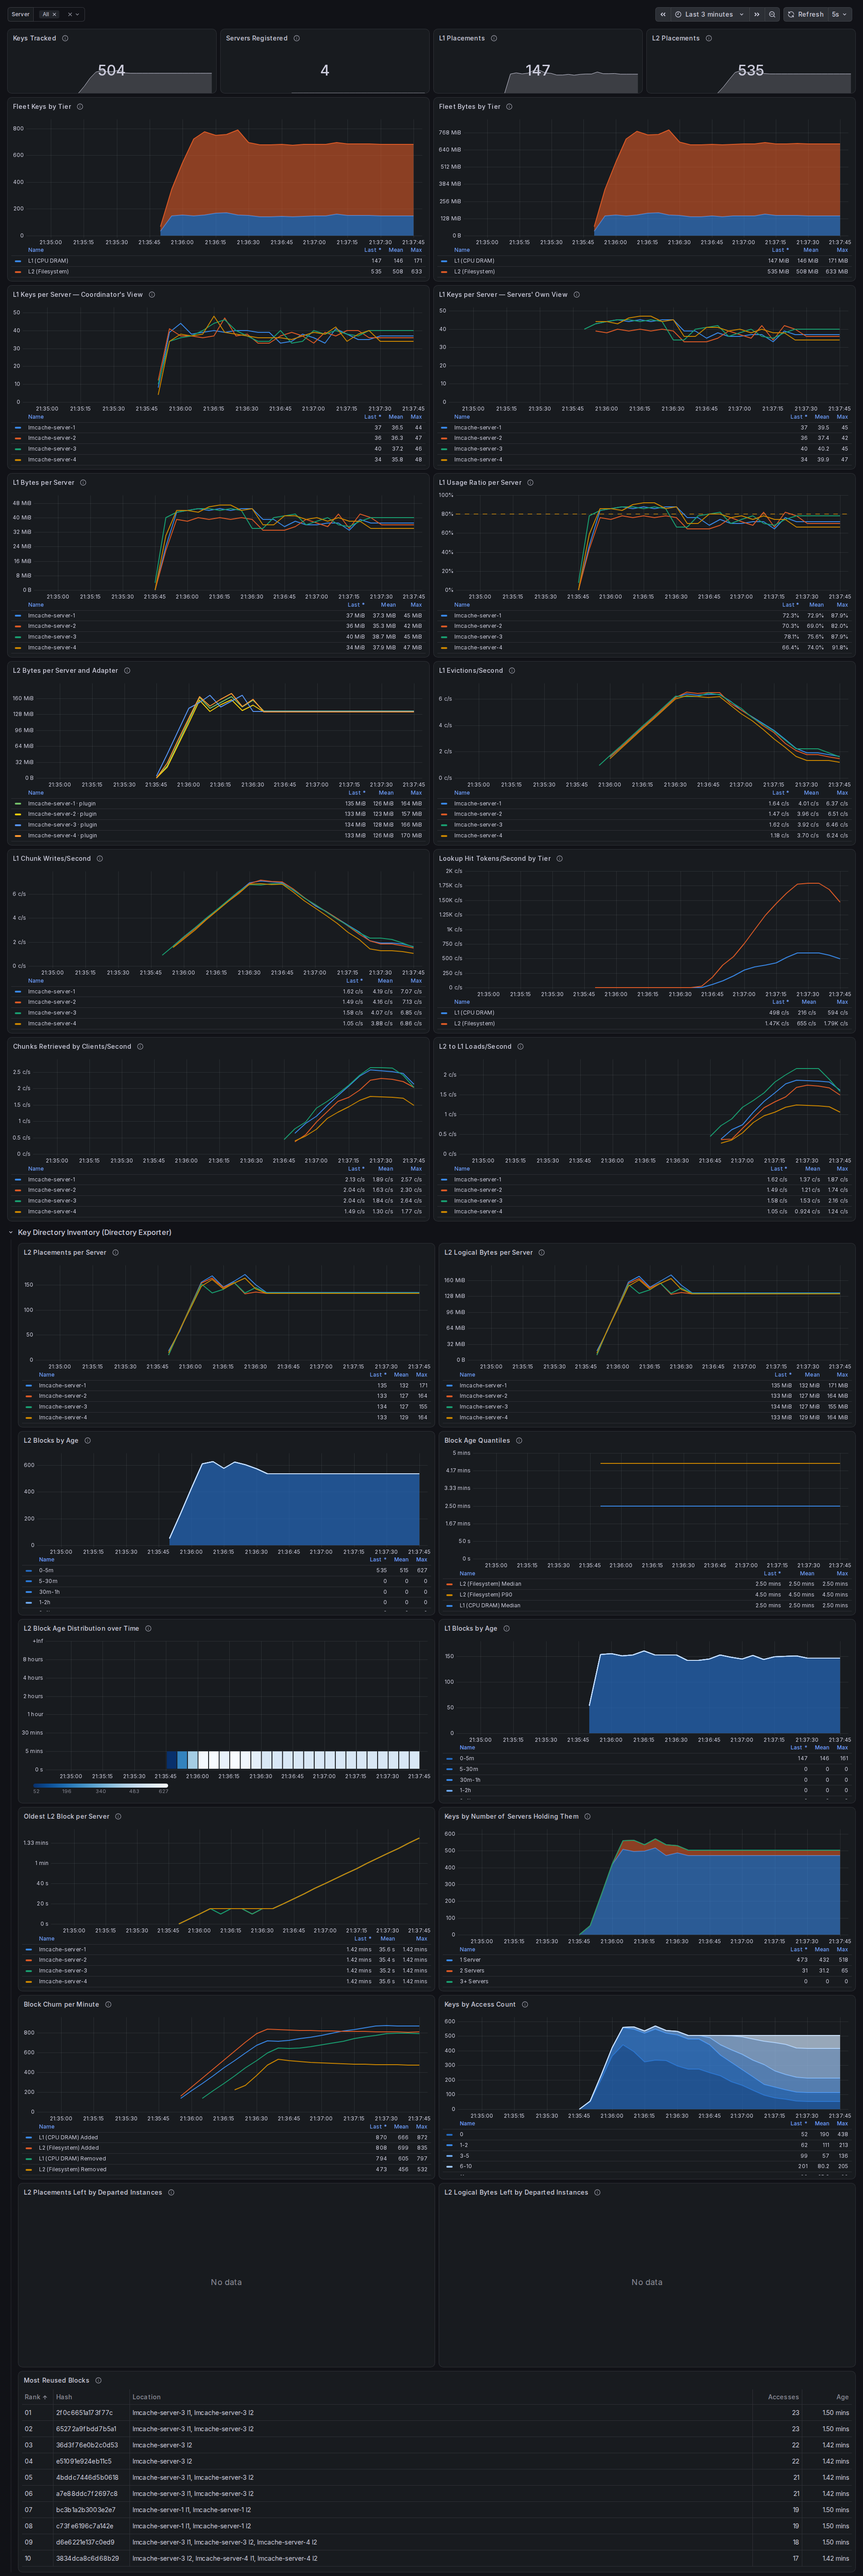
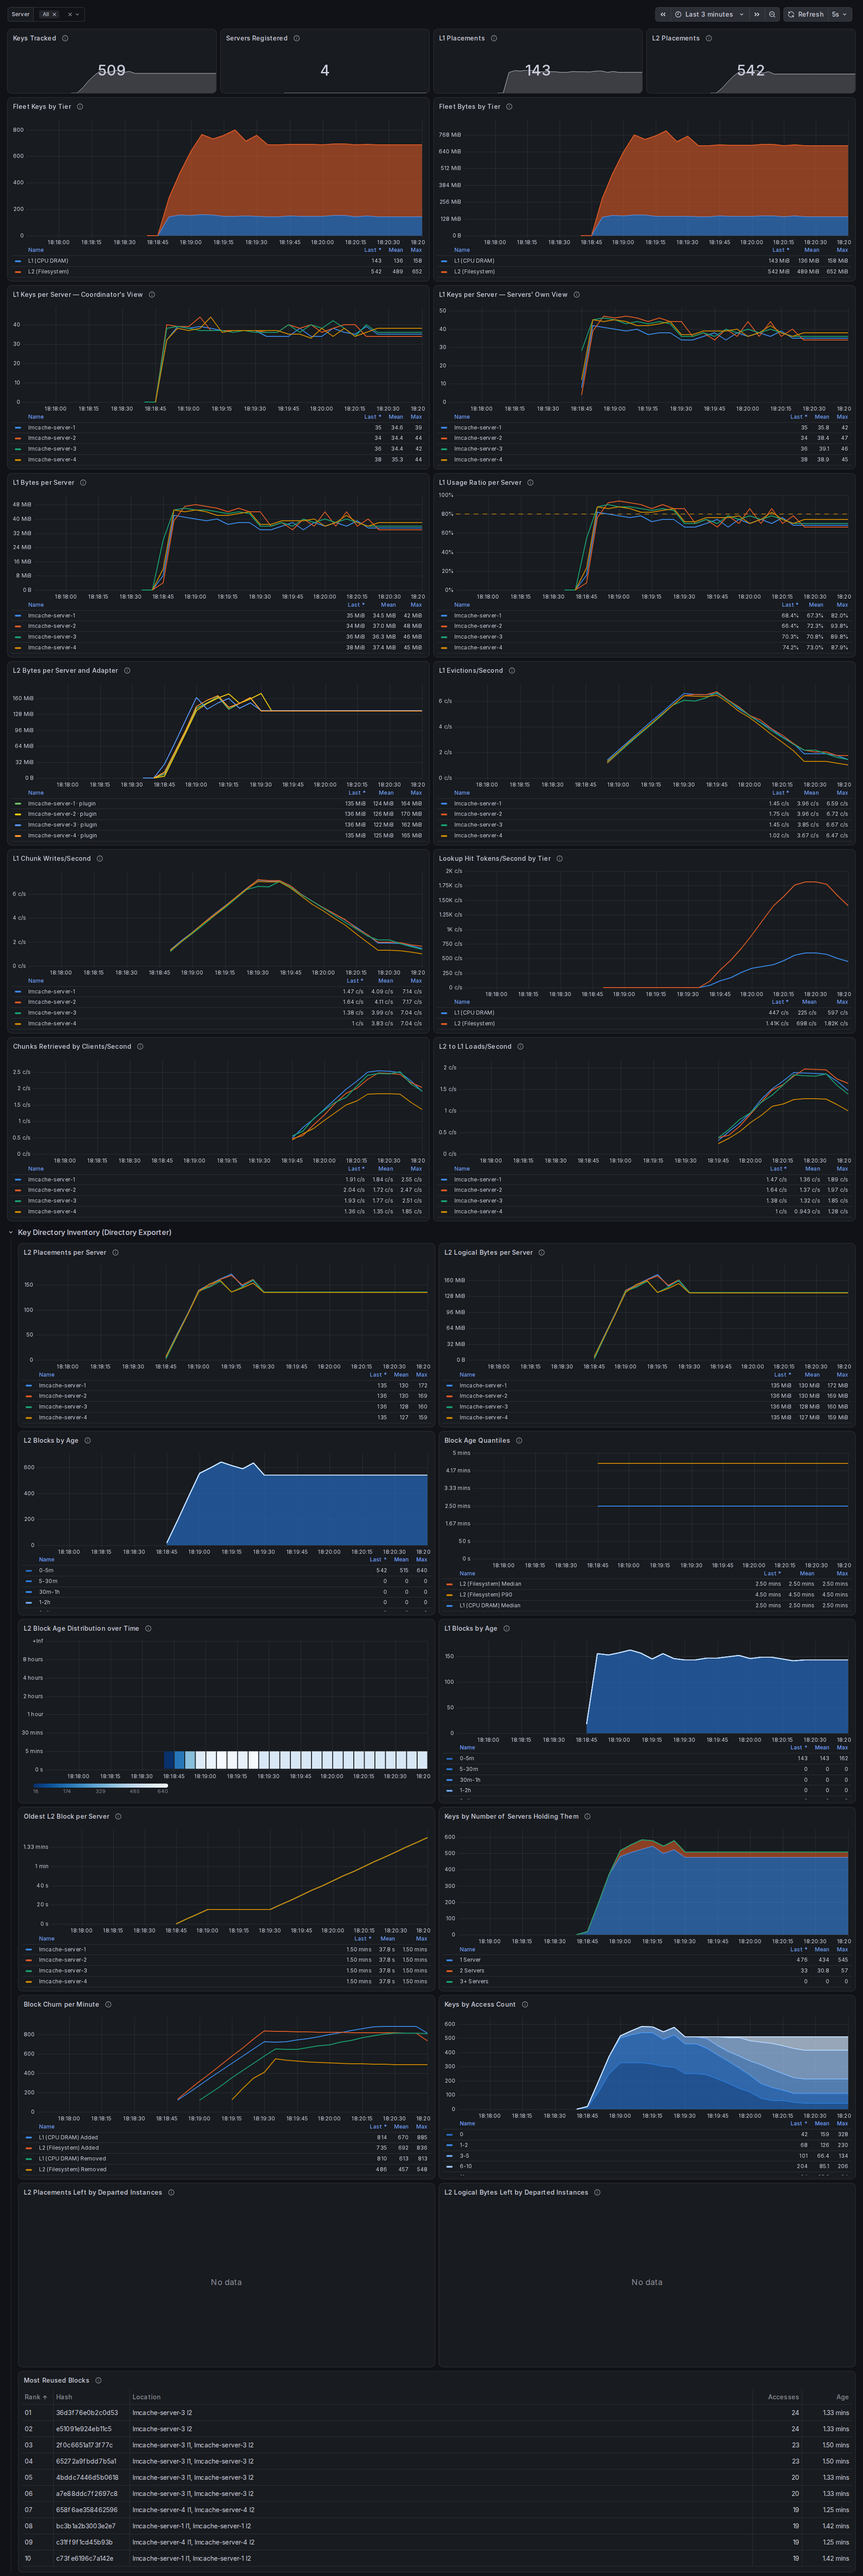
chore: refresh dashboard screenshot 711272b28e1ae403b68bcafe772f93fa26248a2e

diff --git a/index.html b/index.html
@@ -10,8 +10,8 @@
 </style>
 <header>
   <strong>LMCache Fleet</strong> — Grafana dashboard from the last
-  <a href="https://github.com/sbates130272/lmcache-fleet/actions/runs/45705520040">smoke-test run</a>
-  on main (<code>947f47302c171cb5b8f300a5621f875f642c583a</code>): a 4-server fleet storing
+  <a href="https://github.com/sbates130272/lmcache-fleet/actions/runs/46048288537">smoke-test run</a>
+  on main (<code>711272b28e1ae403b68bcafe772f93fa26248a2e</code>): a 4-server fleet storing
   200 sequences each into an L2 capped at 0.2 GiB per
   server, so L1 spills to L2 and L2 evicts in turn. The dashboard
   covers the fleet's whole lifetime, about 3 minute(s).
